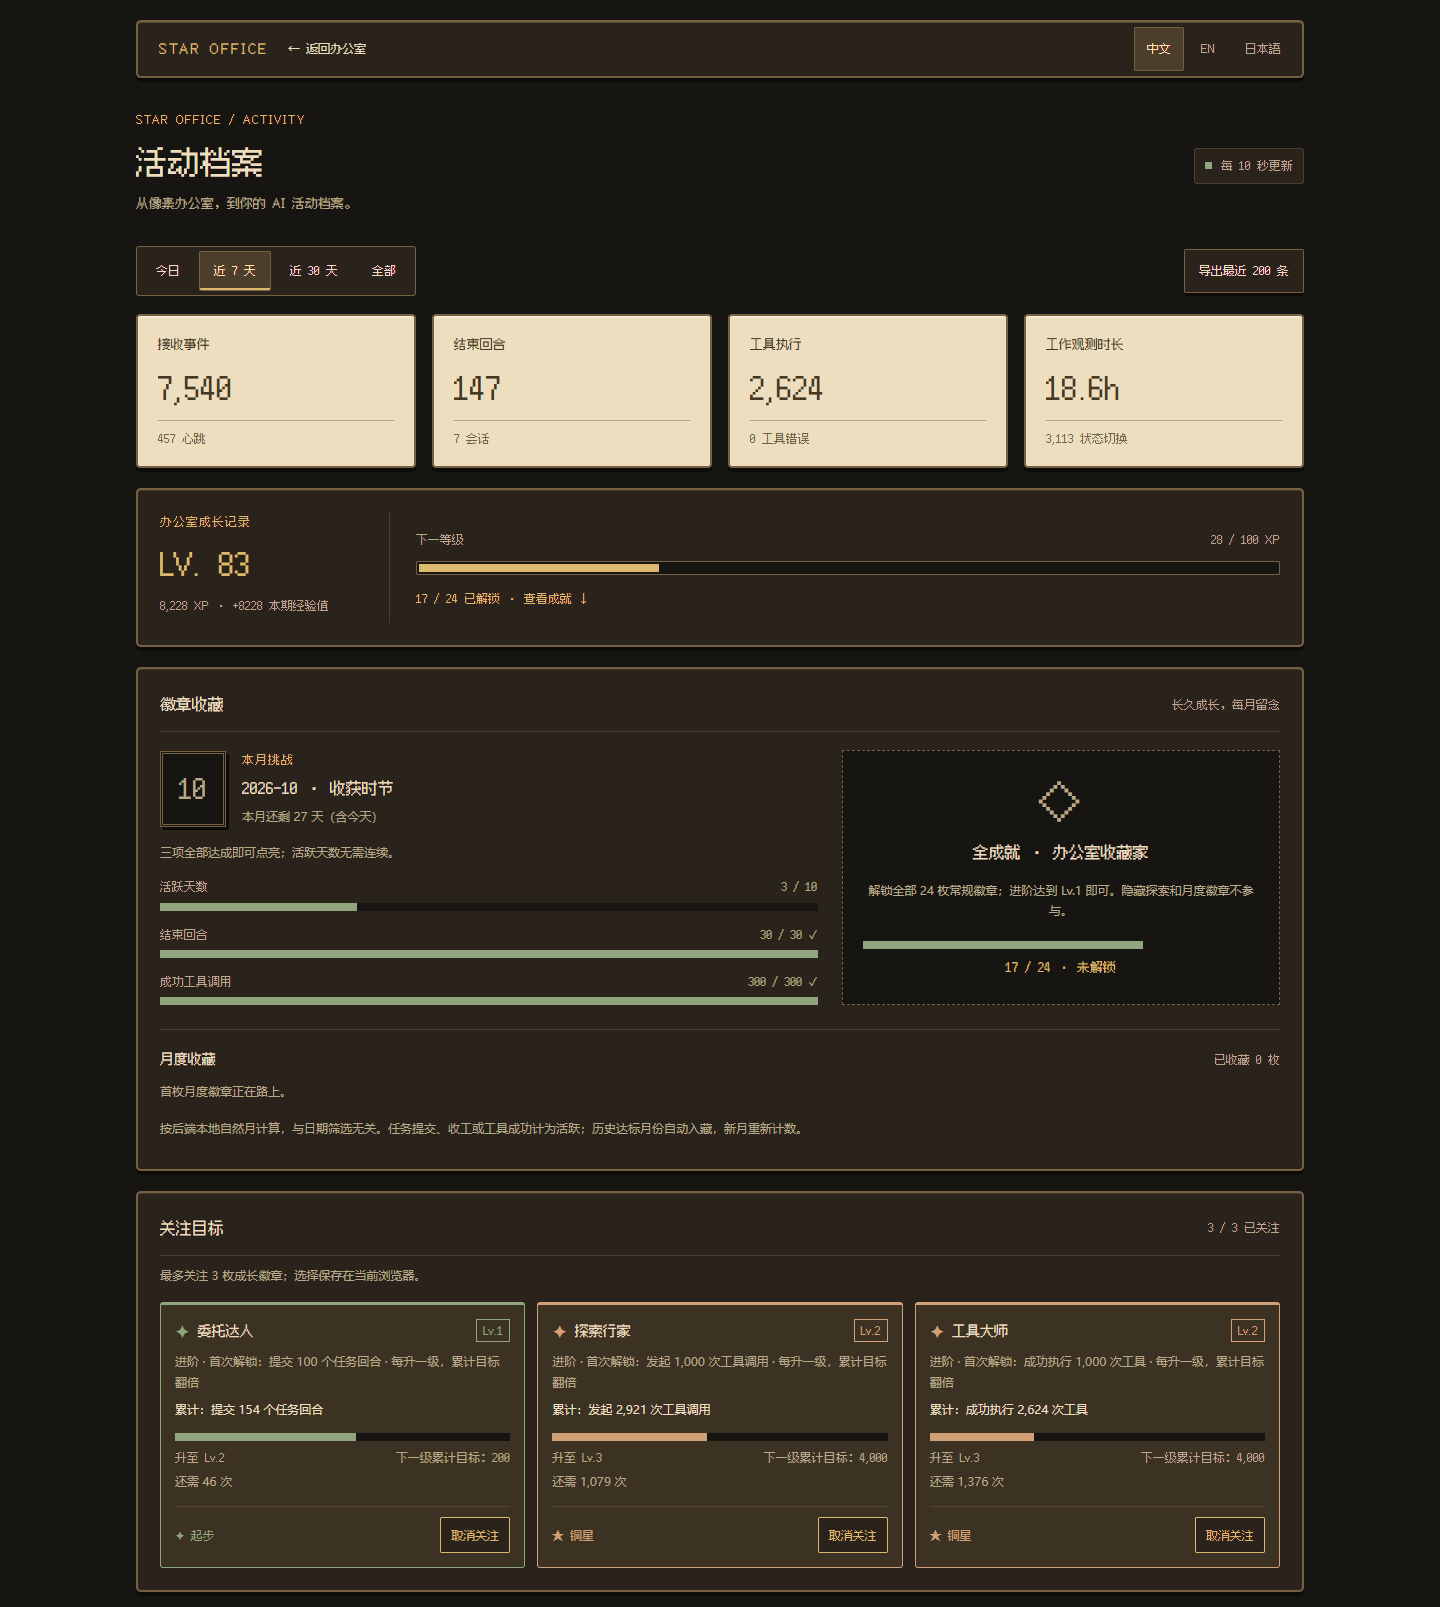
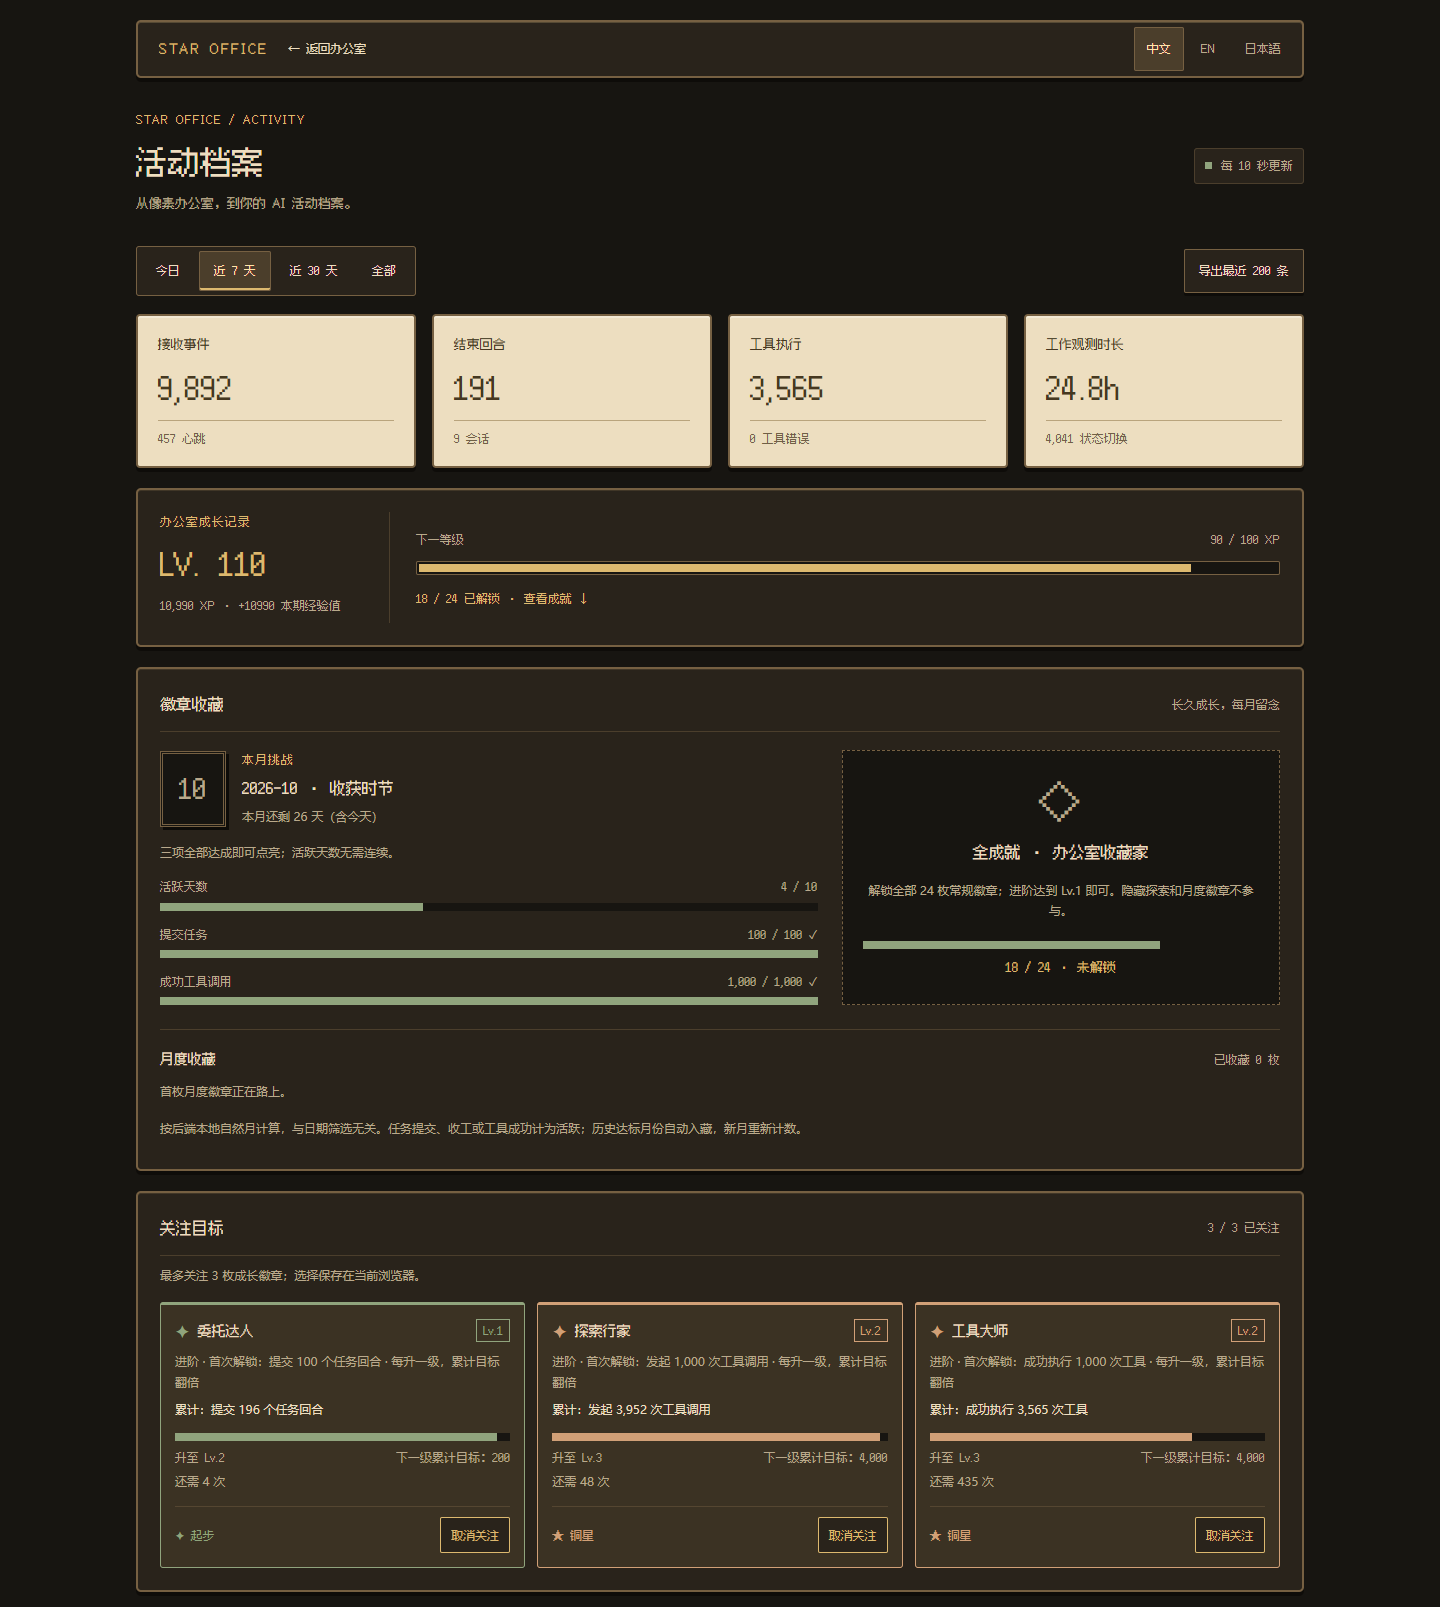
feat: refine monthly challenges and group lifecycle cards

diff --git a/frontend/stats.js b/frontend/stats.js
@@ -1,7 +1,12 @@
 (() => {
   'use strict';
   const STATES = ['idle','writing','researching','executing','syncing','error'];
-  const HOOKS = ['PreToolUse','PermissionRequest','PostToolUse','PreCompact','PostCompact','SessionStart','SessionEnd','UserPromptSubmit','SubagentStart','SubagentStop','Stop','Interrupt'];
+  // Group related events for display; this is not a strict event timeline.
+  const HOOKS = [
+    'UserPromptSubmit','PreToolUse','PermissionRequest','PostToolUse',
+    'SessionStart','SessionEnd','SubagentStart','SubagentStop',
+    'PreCompact','PostCompact','Stop','Interrupt'
+  ];
   const TEXT = {
     zh: {
       achievements:"常规成就",
@@ -68,7 +73,7 @@
       monthlyDays:"本月还剩 {count} 天（含今天）",
       monthlyDone:"本月徽章已入藏",
       monthly_active_days:"活跃天数",
-      monthly_turns:"结束回合",
+      monthly_prompts:"提交任务",
       monthly_tools:"成功工具调用",
       monthlyArchive:"月度收藏",
       monthlyCount:"已收藏 {count} 枚",
@@ -138,7 +143,7 @@
       average:'工具平均耗时',measured:'个配对样本',xpPeriod:'本期经验值',late:'迟到事件，未改变角色',online:'在线',offline:'离线',
       mainCharacter:'主角色',codexDriver:'Codex hooks',stateDriver:'主动调用',lastUpdate:'最近更新',presenceNote:'Star 为办公室主角色，在线按最近 5 分钟收到的状态更新判断。',
       first_turn:'初次收工',teamwork:'协作伙伴',context_keeper:'记忆管理员',
-      stateLabels:['待命','写作','调研','执行','同步','异常'],hookLabels:['工具执行前','等待权限','工具结果','压缩前','压缩后','会话开始','会话结束','接收任务','子 Agent 开始','子 Agent 收尾','回合结束','用户中断']
+      stateLabels:['待命','写作','调研','执行','同步','异常'],hookLabels:['接收任务','工具执行前','等待权限','工具结果','会话开始','会话结束','子 Agent 开始','子 Agent 收尾','压缩前','压缩后','回合结束','用户中断']
     },
     en: {
       achievements:"Regular achievements",
@@ -205,7 +210,7 @@
       monthlyDays:"{count} days left, including today",
       monthlyDone:"This month’s badge is collected",
       monthly_active_days:"Active days",
-      monthly_turns:"Turns ended",
+      monthly_prompts:"Tasks submitted",
       monthly_tools:"Successful tools",
       monthlyArchive:"Monthly collection",
       monthlyCount:"{count} collected",
@@ -275,7 +280,7 @@
       average:'Average tool time',measured:'paired samples',xpPeriod:'XP this period',late:'Late event; character unchanged',online:'online',offline:'offline',
       mainCharacter:'Main character',codexDriver:'Codex hooks',stateDriver:'State updates',lastUpdate:'Last update',presenceNote:'Star is the main office character. Presence reflects state updates received within the last 5 minutes.',
       first_turn:'First finish',teamwork:'Team player',context_keeper:'Memory keeper',
-      stateLabels:['Idle','Writing','Research','Executing','Syncing','Error'],hookLabels:['Before tool','Permission wait','Tool result','Before compact','After compact','Session starts','Session ends','New prompt','Subagent starts','Subagent ends','Turn ends','Interrupted']
+      stateLabels:['Idle','Writing','Research','Executing','Syncing','Error'],hookLabels:['New prompt','Before tool','Permission wait','Tool result','Session starts','Session ends','Subagent starts','Subagent ends','Before compact','After compact','Turn ends','Interrupted']
     },
     ja: {
       achievements:"通常の実績",
@@ -342,7 +347,7 @@
       monthlyDays:"今月は残り {count} 日（今日を含む）",
       monthlyDone:"今月のバッジを獲得",
       monthly_active_days:"活動日数",
-      monthly_turns:"終了ターン",
+      monthly_prompts:"タスク送信",
       monthly_tools:"ツール成功",
       monthlyArchive:"月間コレクション",
       monthlyCount:"{count} 個を収集",
@@ -412,7 +417,7 @@
       average:'ツール平均時間',measured:'組のサンプル',xpPeriod:'期間 XP',late:'遅延イベント：状態変更なし',online:'オンライン',offline:'オフライン',
       mainCharacter:'メインキャラクター',codexDriver:'Codex hooks',stateDriver:'状態更新',lastUpdate:'最終更新',presenceNote:'Star はオフィスのメインキャラクターです。直近 5 分の状態更新をもとにオンラインを表示します。',
       first_turn:'初めての完了',teamwork:'協力者',context_keeper:'記憶管理者',
-      stateLabels:['待機','執筆','調査','実行','同期','エラー'],hookLabels:['ツール実行前','権限待ち','ツール結果','圧縮前','圧縮後','セッション開始','セッション終了','新しいタスク','子 Agent 開始','子 Agent 終了','ターン終了','中断']
+      stateLabels:['待機','執筆','調査','実行','同期','エラー'],hookLabels:['新しいタスク','ツール実行前','権限待ち','ツール結果','セッション開始','セッション終了','子 Agent 開始','子 Agent 終了','圧縮前','圧縮後','ターン終了','中断']
     }
   };
   let lang = 'zh';

diff --git a/frontend/stats.html b/frontend/stats.html
@@ -4,7 +4,7 @@
   <meta charset="utf-8"><meta name="viewport" content="width=device-width, initial-scale=1">
   <title>Star Office · Activity</title>
   <link rel="stylesheet" href="/static/stats.css?v={{VERSION_TIMESTAMP}}&amp;office=1&amp;achievements=6">
-  <script src="/static/stats.js?v={{VERSION_TIMESTAMP}}&amp;presence=1&amp;office=1&amp;achievements=6" defer></script>
+  <script src="/static/stats.js?v={{VERSION_TIMESTAMP}}&amp;presence=1&amp;office=1&amp;achievements=6&amp;hooks=2&amp;monthly=1" defer></script>
 </head>
 <body>
   <main class="dashboard">

diff --git a/tests/test_achievements.py b/tests/test_achievements.py
@@ -32,10 +32,10 @@ def at(year, month, day, hour=12):
 
 
 def month_events(year=2026, month=1, days=10):
-    rows = [event("Stop", f"{year}-{month}-turn-{i}", turn_id=f"{year}-{month}-turn-{i}",
-                  occurred_at=at(year, month, i % days + 1)) for i in range(30)]
+    rows = [event("UserPromptSubmit", f"{year}-{month}-prompt-{i}", turn_id=f"{year}-{month}-prompt-{i}",
+                  occurred_at=at(year, month, i % days + 1)) for i in range(100)]
     rows += [event("PostToolUse", f"{year}-{month}-tool-{i}", tool_id=f"{year}-{month}-tool-{i}",
-                   occurred_at=at(year, month, days)) for i in range(300)]
+                   occurred_at=at(year, month, days)) for i in range(1000)]
     return rows
 
 
@@ -304,7 +304,7 @@ class MonthlyTests(unittest.TestCase):
         result = build_monthly_badges(rows, at(2026, 1, 20))
         self.assertTrue(result["current"]["earned"])
         self.assertEqual(len(result["earned"]), 1)
-        for metric, excluded in [("tools", rows[-1:]), ("turns", rows[:1])]:
+        for metric, excluded in [("tools", rows[-1:]), ("prompts", rows[:1])]:
             ids = {row["event_id"] for row in excluded}
             result = build_monthly_badges([r for r in rows if r["event_id"] not in ids], at(2026, 1, 20))
             self.assertFalse(result["current"]["earned"], metric)
@@ -316,12 +316,34 @@ class MonthlyTests(unittest.TestCase):
         for days in (5, 9, 10):
             result = build_monthly_badges(month_events(days=days), at(2026, 1, 20))
             goals = result["current"]["goals"]
-            self.assertEqual([g["target"] for g in goals], [10, 30, 300])
-            self.assertEqual([g["current"] for g in goals], [days, 30, 300])
+            self.assertEqual([g["metric"] for g in goals], ["active_days", "prompts", "tools"])
+            self.assertEqual([g["target"] for g in goals], [10, 100, 1000])
+            self.assertEqual([g["current"] for g in goals], [days, 100, 1000])
             self.assertEqual(result["current"]["earned"], days >= 10)
 
+    def test_stops_keep_active_days_but_cannot_replace_prompt_submissions(self):
+        rows = [dict(row, event_name="Stop") if row["event_name"] == "UserPromptSubmit" else row
+                for row in month_events()]
+        result = build_monthly_badges(rows, at(2026, 1, 20))
+        self.assertEqual([g["current"] for g in result["current"]["goals"]], [10, 0, 1000])
+        self.assertFalse(result["current"]["earned"])
+
+    def test_prompt_replays_do_not_unlock_early_or_count_again_in_next_month(self):
+        rows = month_events()
+        removed = rows.pop(0)
+        replay = dict(rows[0], event_id="same-turn-again")
+        result = build_monthly_badges(rows + [replay], at(2026, 1, 20))
+        self.assertEqual(result["current"]["goals"][1]["current"], 99)
+        self.assertFalse(result["current"]["earned"])
+        rows.append(removed)
+        self.assertTrue(build_monthly_badges(rows, at(2026, 1, 20))["current"]["earned"])
+        replay["occurred_at"] = at(2026, 2, 1)
+        result = build_monthly_badges([replay] + rows, at(2026, 2, 2))
+        self.assertEqual([g["current"] for g in result["current"]["goals"]], [0, 0, 0])
+        self.assertEqual([b["month"] for b in result["earned"]], ["2026-01"])
+
     def test_month_rollover_keeps_earned_history_and_resets_current(self):
-        rows = month_events() + [event("Stop", "feb", occurred_at=at(2026, 2, 1))]
+        rows = month_events() + [event("UserPromptSubmit", "feb", occurred_at=at(2026, 2, 1))]
         result = build_monthly_badges(rows, at(2026, 2, 1))
         self.assertEqual([b["month"] for b in result["earned"]], ["2026-01"])
         self.assertEqual(result["current"]["month"], "2026-02")
@@ -352,7 +374,7 @@ class MonthlyTests(unittest.TestCase):
         self.assertEqual(build_monthly_badges([], at(2024, 2, 28))["current"]["days_left"], 2)
         self.assertEqual(build_monthly_badges([], at(2026, 2, 28))["current"]["days_left"], 1)
         midnight = at(2026, 3, 1, 0)
-        rows = [event("Stop", "last", occurred_at=midnight - 1), event("Stop", "first", occurred_at=midnight)]
+        rows = [event("UserPromptSubmit", "last", occurred_at=midnight - 1), event("UserPromptSubmit", "first", occurred_at=midnight)]
         result = build_monthly_badges(rows, midnight)
         self.assertEqual(result["current"]["month"], "2026-03")
         self.assertEqual(result["current"]["goals"][1]["current"], 1)
@@ -376,7 +398,7 @@ class MonthlyTests(unittest.TestCase):
                 recent = EventStore(path).stats(at(2026, 2, 1, 0), at(2026, 2, 1))
             self.assertEqual(full["game"]["monthly"], recent["game"]["monthly"])
             self.assertEqual(len(recent["game"]["monthly"]["earned"]), 1)
-            self.assertEqual(recent["game"]["xp"], 30 * 20 + 300 * 2)
+            self.assertEqual(recent["game"]["xp"], 1000 * 2)
             self.assertEqual(recent["game"]["period_xp"], 0)
 
 

diff --git a/backend/achievements.py b/backend/achievements.py
@@ -37,7 +37,7 @@ REPEATABLE_ACHIEVEMENTS = frozenset({
     "tool_1000", "compact_50", "delegate_10", "teamwork_10",
 })
 LEVEL_TIERS = (10, 7, 5, 3, 2, 1)
-MONTHLY_TARGETS = (("active_days", 10), ("turns", 30), ("tools", 300))
+MONTHLY_TARGETS = (("active_days", 10), ("prompts", 100), ("tools", 1000))
 
 
 def achievement_progress(badge_id, category, hook, target, current):
@@ -168,16 +168,16 @@ def build_monthly_badges(rows, now=None):
         if row["occurred_at"] > now or row["event_name"] not in {"UserPromptSubmit", "Stop", "PostToolUse"}:
             continue
         date = datetime.fromtimestamp(row["occurred_at"])
-        month = months.setdefault(date.strftime("%Y-%m"), {"days": set(), "turns": 0, "tools": 0})
+        month = months.setdefault(date.strftime("%Y-%m"), {"days": set(), "prompts": 0, "tools": 0})
         month["days"].add(date.date())
-        if row["event_name"] == "Stop":
-            month["turns"] += 1
+        if row["event_name"] == "UserPromptSubmit":
+            month["prompts"] += 1
         elif row["event_name"] == "PostToolUse":
             month["tools"] += 1
 
     def badge_for(key):
-        counts = months.get(key, {"days": set(), "turns": 0, "tools": 0})
-        totals = {"active_days": len(counts["days"]), "turns": counts["turns"], "tools": counts["tools"]}
+        counts = months.get(key, {"days": set(), "prompts": 0, "tools": 0})
+        totals = {"active_days": len(counts["days"]), "prompts": counts["prompts"], "tools": counts["tools"]}
         goals = [{"metric": metric, "current": totals[metric], "target": target}
                  for metric, target in MONTHLY_TARGETS]
         return {"month": key, "earned": all(g["current"] >= g["target"] for g in goals), "goals": goals}

diff --git a/README.ja.md b/README.ja.md
@@ -247,7 +247,7 @@ python3 office-agent-push.py
 - **上級の累計目標はレベルごとに倍増**します。ツール成功の上級バッジは 1,000 回で Lv.1、2,000 回で Lv.2、4,000 回で Lv.3。広い画面では左に固定バッジ 2 枚、右に上級バッジ 1 枚を配置し、スマートフォンでは縦に並びます。
 - **上級バッジを最大 3 個まで注目**すると、次のレベルへの進捗を上部で確認できます。選択は現在のブラウザーに保存されます。進捗は重複を除いた全履歴から計算し、期間選択の影響を受けません。既存の履歴は再計算され、XP はリセットされません。
 - **全実績コレクション**は通常実績 24 個をすべて初回解除すると達成します。上級は Lv.1 で十分です。隠し実績と月間バッジは条件に含みません。
-- **月間チャレンジ**の条件は毎月同じで、**活動 10 日・ターン終了 30 回・ツール成功 300 回**です。バックエンドの現地暦月内に 3 条件をすべて満たすと解除され、活動日は連続でなくても構いません。依頼受付・ターン終了・ツール成功のある日を活動日とし、複数 Agent も同日なら 1 日です。ハートビートや権限待ちは活動日に含みません。
+- **月間チャレンジ**の条件は毎月同じで、**活動 10 日・タスク送信 100 回（UserPromptSubmit）・ツール成功 1,000 回**です。バックエンドの現地暦月内に 3 条件をすべて満たすと解除され、活動日は連続でなくても構いません。依頼受付・ターン終了・ツール成功のある日を活動日とし、複数 Agent も同日なら 1 日です。ハートビートや権限待ちは活動日に含みません。タスク送信はターン ID で重複を除き、同じ送信の再報告は 1 回と数えます。
 - **月間コレクション**には達成した年月と季節テーマが残ります。新しい月はゼロから開始し、保存済み履歴や遅れて届いたイベントで過去の月も達成できます。記録を残すには `data/office-events.sqlite3` をバックアップしてください。
 - **隠し実績**は任意の体験 9 個と、すべて発見したときの 10 個目の記念です。未解除のカードは伏せた表示だけで、達成後に名前と条件が現れます。珍しいライフサイクルイベントや、現地時刻と実際のタスクで判定し、通常の全実績達成には影響しません。
 - 実績や月間バッジに追加 XP はありません。12 種類すべてのライフサイクル統計を引き続き利用できます。

diff --git a/README.en.md b/README.en.md
@@ -247,7 +247,7 @@ Tool durations pair start/end events by `tool_use_id`. Unique completed turns aw
 - **Advanced levels double their cumulative thresholds**: the successful-tool badge unlocks at 1,000 calls, reaches Lv.2 at 2,000 and Lv.3 at 4,000. On wide screens, two fixed badges sit on the left and one taller advanced card on the right; on phones they stack vertically.
 - **Follow up to 3 advanced badges** to see their next-level progress near the top. Selections are saved in the current browser. Lifetime progress is deduplicated and unaffected by the date filter; existing history is recalculated without resetting XP.
 - **Full collection** requires the initial unlock of all 24 regular badges; Lv.1 is enough for advanced badges. Hidden discoveries and monthly badges are excluded.
-- **Monthly challenge** uses the same three requirements every month: **10 active days, 30 completed turns, and 300 successful tool calls**. All three must be met within the backend's local calendar month; active days need not be consecutive. Task submissions, completed turns, or successful tools count as activity. Multiple agents on the same date count as one active day; heartbeats and permission waits do not count.
+- **Monthly challenge** uses the same three requirements every month: **10 active days, 100 task submissions (UserPromptSubmit), and 1,000 successful tool calls**. All three must be met within the backend's local calendar month; active days need not be consecutive. Task submissions, completed turns, or successful tools count as activity. Multiple agents on the same date count as one active day; heartbeats and permission waits do not count. Task submissions are deduplicated by turn ID; repeated reports count once.
 - **Monthly collection** keeps each earned year-month badge with a seasonal theme. A new month starts fresh; retained historical events can unlock past months, including late arrivals. Back up `data/office-events.sqlite3` to preserve the record.
 - **Hidden discoveries** have 9 optional experiences plus a tenth reward for collecting all nine. Locked cards show only an unrevealed placeholder; names and conditions appear after unlocking. Some use rare lifecycle events and others use local time and actual task events. They never block the regular full collection.
 - Achievements and monthly badges award no extra XP. All 12 lifecycle event statistics remain available.

diff --git a/README.md b/README.md
@@ -314,8 +314,8 @@ python office-agent-push.py
 ### 全成就与月度收藏
 
 - **全成就 · 办公室收藏家**：24 枚常规徽章全部首次解锁后自动点亮，进阶达到 Lv.1 即可。隐藏探索和月度徽章均不参与，也不要求无限等级达到某个“终点”。
-- **月度徽章**：每个月条件相同，当月同时达到 **活跃 10 天、结束 30 个回合、成功执行 300 次工具** 即点亮。活跃天数无需连续；收到任务提交、回合结束或成功工具结果的日期算一个活跃日，多 Agent 同日只算一天，心跳和权限等待不算。
-- 按**后端本地自然月**统计，不受“今日 / 近 7 天”等筛选影响。工具、回合重复上报只计一次，跨月重复归于首次活动月份；未来时间的记录不提前计入。
+- **月度徽章**：每个月条件相同，当月同时达到 **活跃 10 天、提交 100 次任务（UserPromptSubmit）、成功执行 1,000 次工具** 即点亮。活跃天数无需连续；收到任务提交、回合结束或成功工具结果的日期算一个活跃日，多 Agent 同日只算一天，心跳和权限等待不算。
+- 按**后端本地自然月**统计，不受“今日 / 近 7 天”等筛选影响。工具调用按工具 ID、任务提交按回合 ID 去重，跨月重复归于首次活动月份；未来时间的记录不提前计入。
 - 每个月有独立年月与季节主题，例如十月“收获时节”。新月重新计数，已达成月份进入收藏；保留的历史记录会自动补亮已达标月份，迟到事件也能补记。收藏随活动数据库保存，备份时请包含 `data/office-events.sqlite3`。
 
 ### 趣味探索（隐藏成就）
